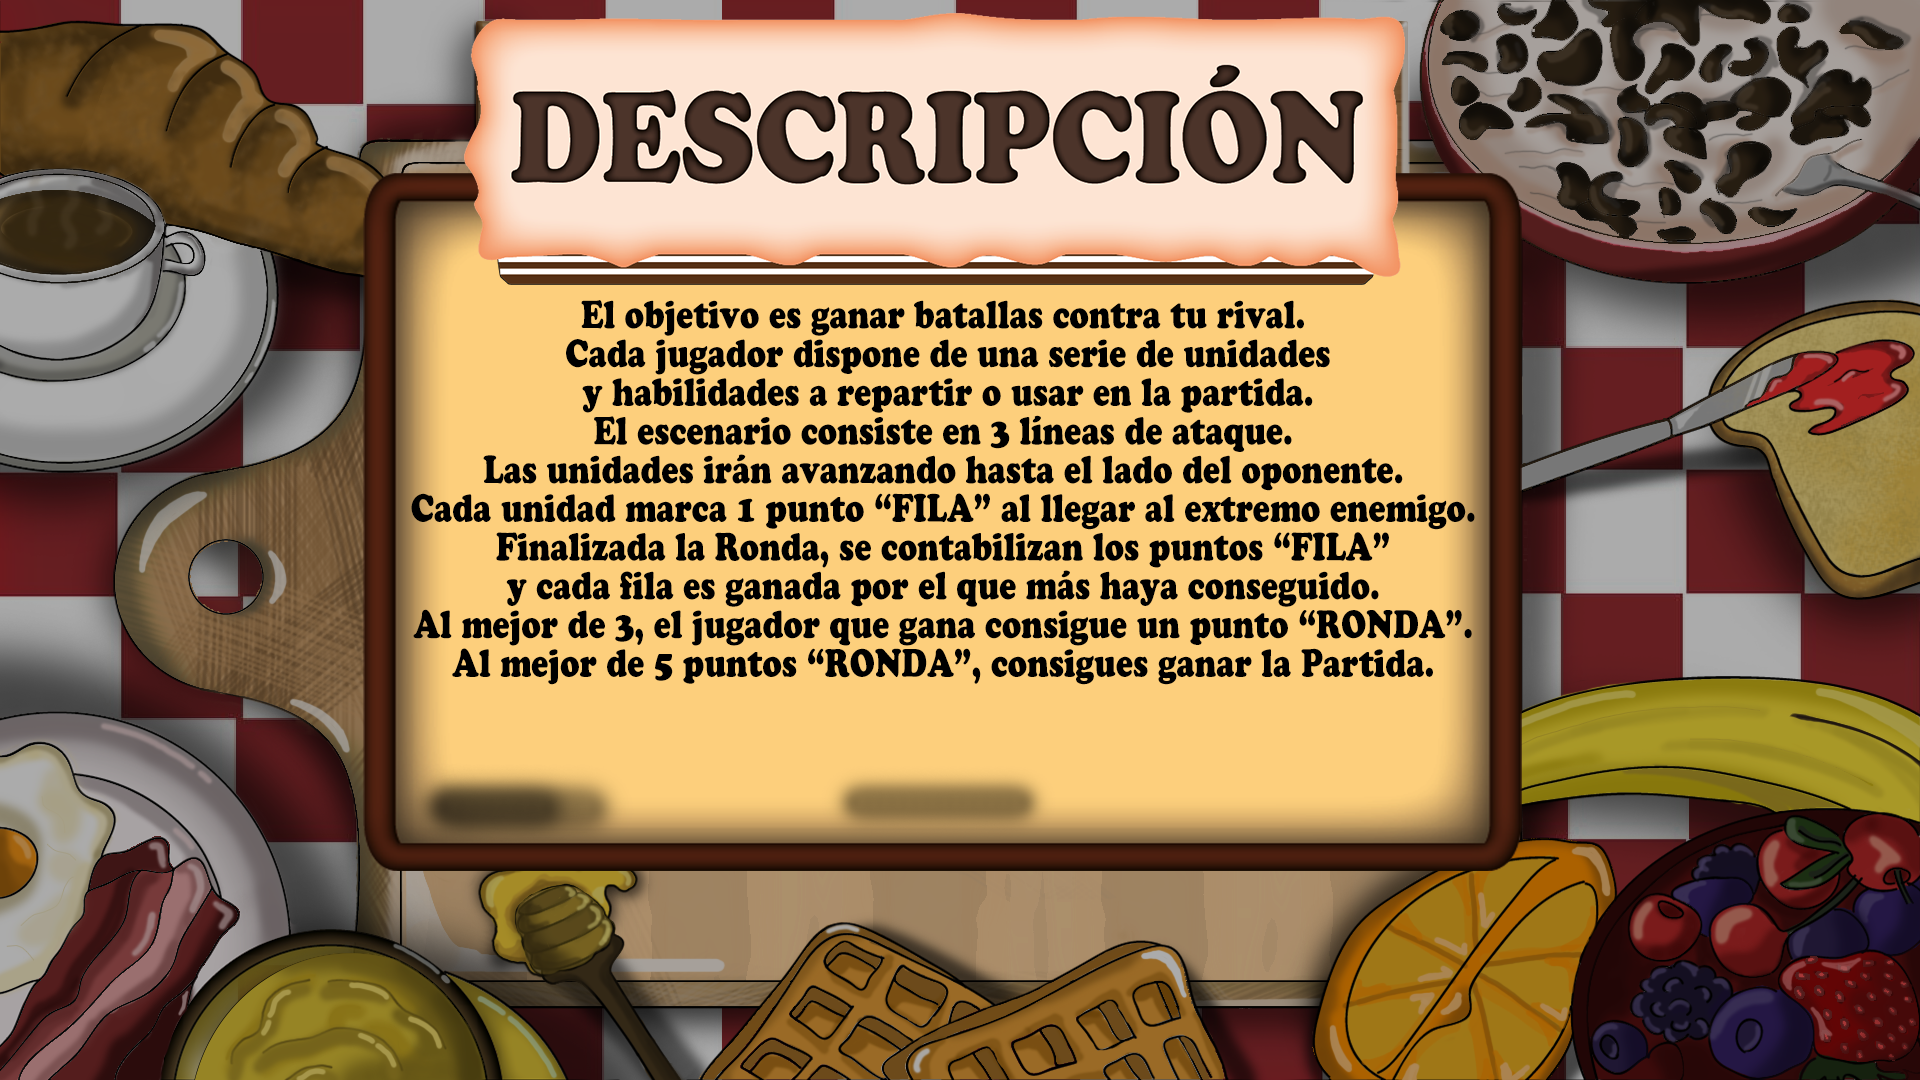
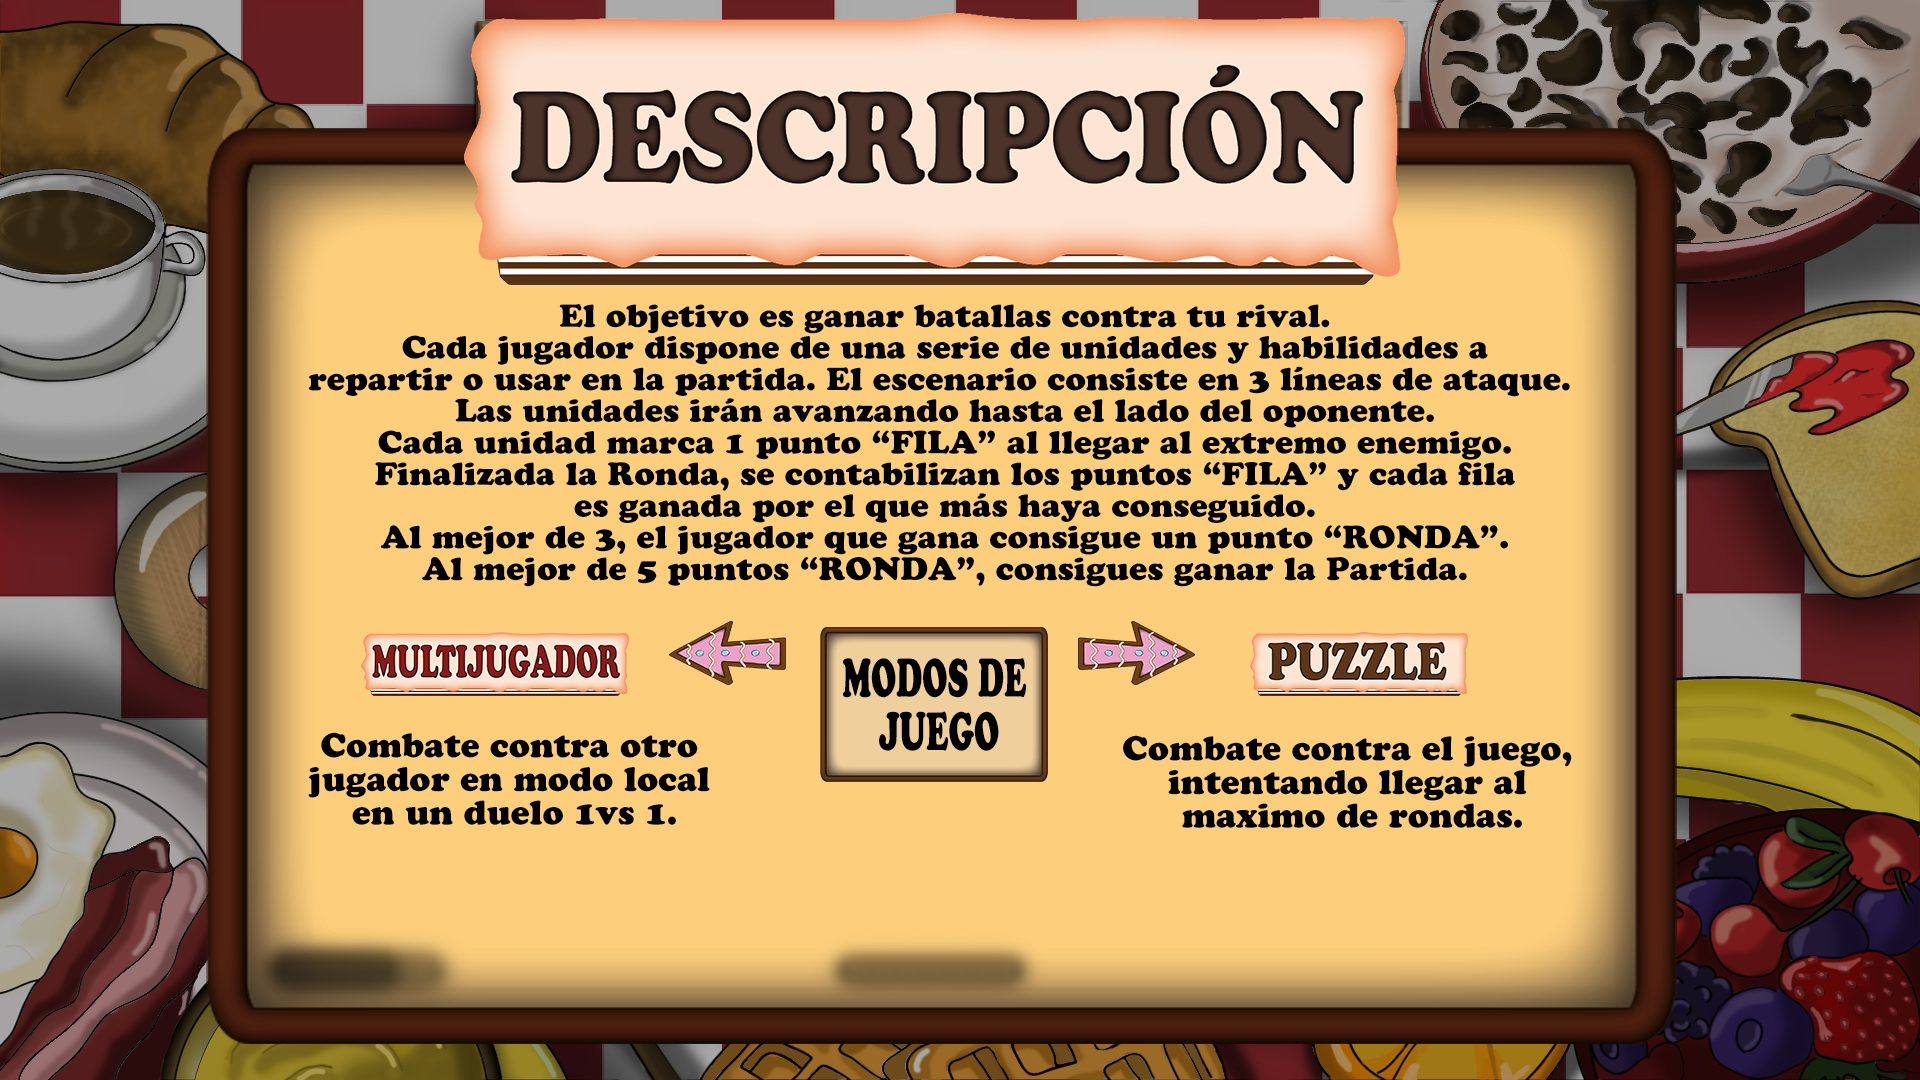
Nuevas interfaces
- Creada interfaz fases.
- Creada interfaz tiendaPremios.
- Modificación interfaz descripción.

diff --git a/src/static/js/gameAPI.js b/src/static/js/gameAPI.js
@@ -48,6 +48,8 @@ export default class GameAPI {
     // --------------- ASSETS TIENDA -----------------
     this.escena.load.image("fondoTiendaComprar", "assets/tienda/InterfazTiendaComprarBase.png")
     this.escena.load.image("fondoTiendaSkin", "assets/tienda/InterfazTiendaSkinBase.png")
+    this.escena.load.image("spanish_fondoTiendaPremios", "assets/tienda/InterfazTiendaPremiosBaseEspañol.png")
+    this.escena.load.image("english_fondoTiendaPremios", "assets/tienda/InterfazTiendaPremiosBaseInglés.png")
     this.escena.load.image("spanish_comprar", "assets/tienda/Comprar.png")
     this.escena.load.image("english_comprar", "assets/tienda/Buy.png")
     this.escena.load.image("spanish_comprarNoSelect", "assets/tienda/ComprarNoSelect.png")
@@ -76,7 +78,7 @@ export default class GameAPI {
 
     // --------------- ASSETS TUTORIAL --> Descripción -----------------
     this.escena.load.image("spanish_fondoDescripcion", "assets/tutorial/descripcion/InterfazBaseDescripcionESP.png")
-    this.escena.load.image("english_fondoDescripcion", "assets/tutorial/descripcion/InterfazBaseDescriptionENG.png")
+    this.escena.load.image("english_fondoDescripcion", "assets/tutorial/descripcion/InterfazBaseDescripcionENG.png")
 
     // --------------- ASSETS TUTORIAL --> Controles -----------------
     this.escena.load.image("fondoControles", "assets/tutorial/controles/InterfazBaseControles.png")
@@ -108,6 +110,10 @@ export default class GameAPI {
     this.escena.load.image("english_jefe", "assets/tutorial/personajes/Boss.png")
     this.escena.load.image("mantequilla", "assets/buffs/SpriteBuffMantequilla/mante1.png")
     this.escena.load.image("mermelada", "assets/buffs/SpriteBuffMermelada/jam1.png")
+
+  // --------------- ASSETS TUTORIAL --> Fases -----------------
+    this.escena.load.image("spanish_fondoFases", "assets/tutorial/fases/InterfazBaseFasesESP.png")
+    this.escena.load.image("english_fondoFases", "assets/tutorial/fases/InterfazBaseFasesENG.png")
 
     // --------------- ASSETS LOGIN -----------------
     this.escena.load.image("fondoLogin", "assets/login/InterfazRegistroBase.png")

diff --git a/src/static/js/escenas/tienda/tiendaPremios.js b/src/static/js/escenas/tienda/tiendaPremios.js
@@ -1,8 +1,8 @@
 import { ConfiguracionJuego, APIJuego } from "../../main.js";
 
-export default class TiendaSkins extends Phaser.Scene {
+export default class TiendaPremios extends Phaser.Scene {
   constructor() {
-    super("tiendaSkins");
+    super("tiendaPremios");
   }
 
   preload() {
@@ -10,16 +10,22 @@ export default class TiendaSkins extends Phaser.Scene {
   }
 
   create() {
-    var fondoTiendaSkins = this.add.image(0, 0, "fondoTiendaSkin").setOrigin(0);
+    var fondoTiendaPremios = this.add
+      .image(0, 0, APIJuego.lenguage + "_fondoTiendaPremios")
+      .setOrigin(0);
 
-    let cartelSkins = this.add.image(400, 300, "skins").setScale(0.25);
+    let cartelSkins = this.add
+      .image(400, 300, "skinsNoSelect")
+      .setScale(0.25)
+      .setInteractive()
+      .on("pointerdown", () => this.scene.start("tiendaSkins"));
 
     let cartelTienda = this.add
       .image(940, 110, APIJuego.lenguage + "_tienda")
       .setScale(0.75);
 
     let cartelPremios = this.add
-      .image(750, 300, APIJuego.lenguage + "_premiosNoSelect")
+      .image(750, 300, APIJuego.lenguage + "_premios")
       .setScale(0.25)
       .setInteractive()
       .on("pointerdown", () => this.scene.start("tiendaPremios"));
@@ -42,7 +48,8 @@ export default class TiendaSkins extends Phaser.Scene {
       .setInteractive()
       .on("pointerdown", function () {
         let lenguage = APIJuego.setLenguage();
-        cartelPremios.setTexture(lenguage + "_premiosNoSelect");
+        fondoTiendaPremios.setTexture(lenguage + "_fondoTiendaPremios");
+        cartelPremios.setTexture(lenguage + "_premios");
         cartelTienda.setTexture(lenguage + "_tienda");
         clickButtonComprar.setTexture(lenguage + "_comprarNoSelect");
         clickButtonIdioma.setTexture(

diff --git a/src/static/js/escenas/escenasTutorial/fases.js b/src/static/js/escenas/escenasTutorial/fases.js
@@ -1,16 +1,16 @@
 import { ConfiguracionJuego, APIJuego } from "../../main.js";
 
-export default class Descripcion extends Phaser.Scene {
+export default class Fases extends Phaser.Scene {
     constructor() {
-        super("descripcion")
+        super("fases")
     }
 
     preload() {
-        APIJuego.setEscena(this)
+        APIJuego.setEscena(this);
     }
 
     create() {
-        var fondoDescripcion = this.add.image(0, 0, APIJuego.lenguage + "_fondoDescripcion").setOrigin(0);
+        var fondoFases = this.add.image(0, 0, APIJuego.lenguage + "_fondoFases").setOrigin(0)
 
         let clickButtonOK = this.add
         .image(930, 920, "OK")
@@ -24,7 +24,7 @@ export default class Descripcion extends Phaser.Scene {
         .setInteractive()
         .on("pointerdown", function () {
           let lenguage = APIJuego.setLenguage();
-          fondoDescripcion.setTexture(lenguage + "_fondoDescripcion")
+          fondoFases.setTexture(lenguage + "_fondoFases")
           clickButtonIdioma.setTexture(
             lenguage === "spanish" ? "english" : "spanish"
           );

diff --git a/src/static/js/main.js b/src/static/js/main.js
@@ -19,6 +19,8 @@ import Atacante from "./escenas/escenasTutorial/personajesStats/atacante.js";
 import TiendaSkins from "./escenas/tienda/tiendaSkins.js";
 import TiendaComprar from "./escenas/tienda/tiendaComprar.js";
 import Login from "./escenas/login.js";
+import Fases from "./escenas/escenasTutorial/fases.js";
+import TiendaPremios from "./escenas/tienda/tiendaPremios.js";
 
 var config = {
   type: Phaser.AUTO,
@@ -48,6 +50,7 @@ var config = {
     Creditos,
     TiendaSkins,
     TiendaComprar,
+    TiendaPremios,
     Tutorial,
     Descripcion,
     Controles,
@@ -58,6 +61,7 @@ var config = {
     Defensor,
     Velocista,
     Atacante,
+    Fases,
     Escena2,
   ],
   parent: "canvas",

diff --git a/src/static/js/escenas/tienda/tiendaComprar.js b/src/static/js/escenas/tienda/tiendaComprar.js
@@ -26,7 +26,9 @@ export default class TiendaComprar extends Phaser.Scene {
 
     let cartelPremios = this.add
       .image(750, 300, APIJuego.lenguage + "_premiosNoSelect")
-      .setScale(0.25);
+      .setScale(0.25)
+      .setInteractive()
+      .on("pointerdown", () => this.scene.start("tiendaPremios"))
 
     let clickButtonComprar = this.add
       .image(1100, 300, APIJuego.lenguage + "_comprar")

diff --git a/src/static/js/escenas/tutorial.js b/src/static/js/escenas/tutorial.js
@@ -39,6 +39,8 @@ export default class Tutorial extends Phaser.Scene {
       let clickButtonFases = this.add
       .image(1200, 710, APIJuego.lenguage + "_fases")
       .setScale(0.35)
+      .setInteractive()
+      .on("pointerdown", () => this.scene.start("fases"))
 
       let clickButtonSonido = this.add
       .image(750, 870, "sonidoOn")
